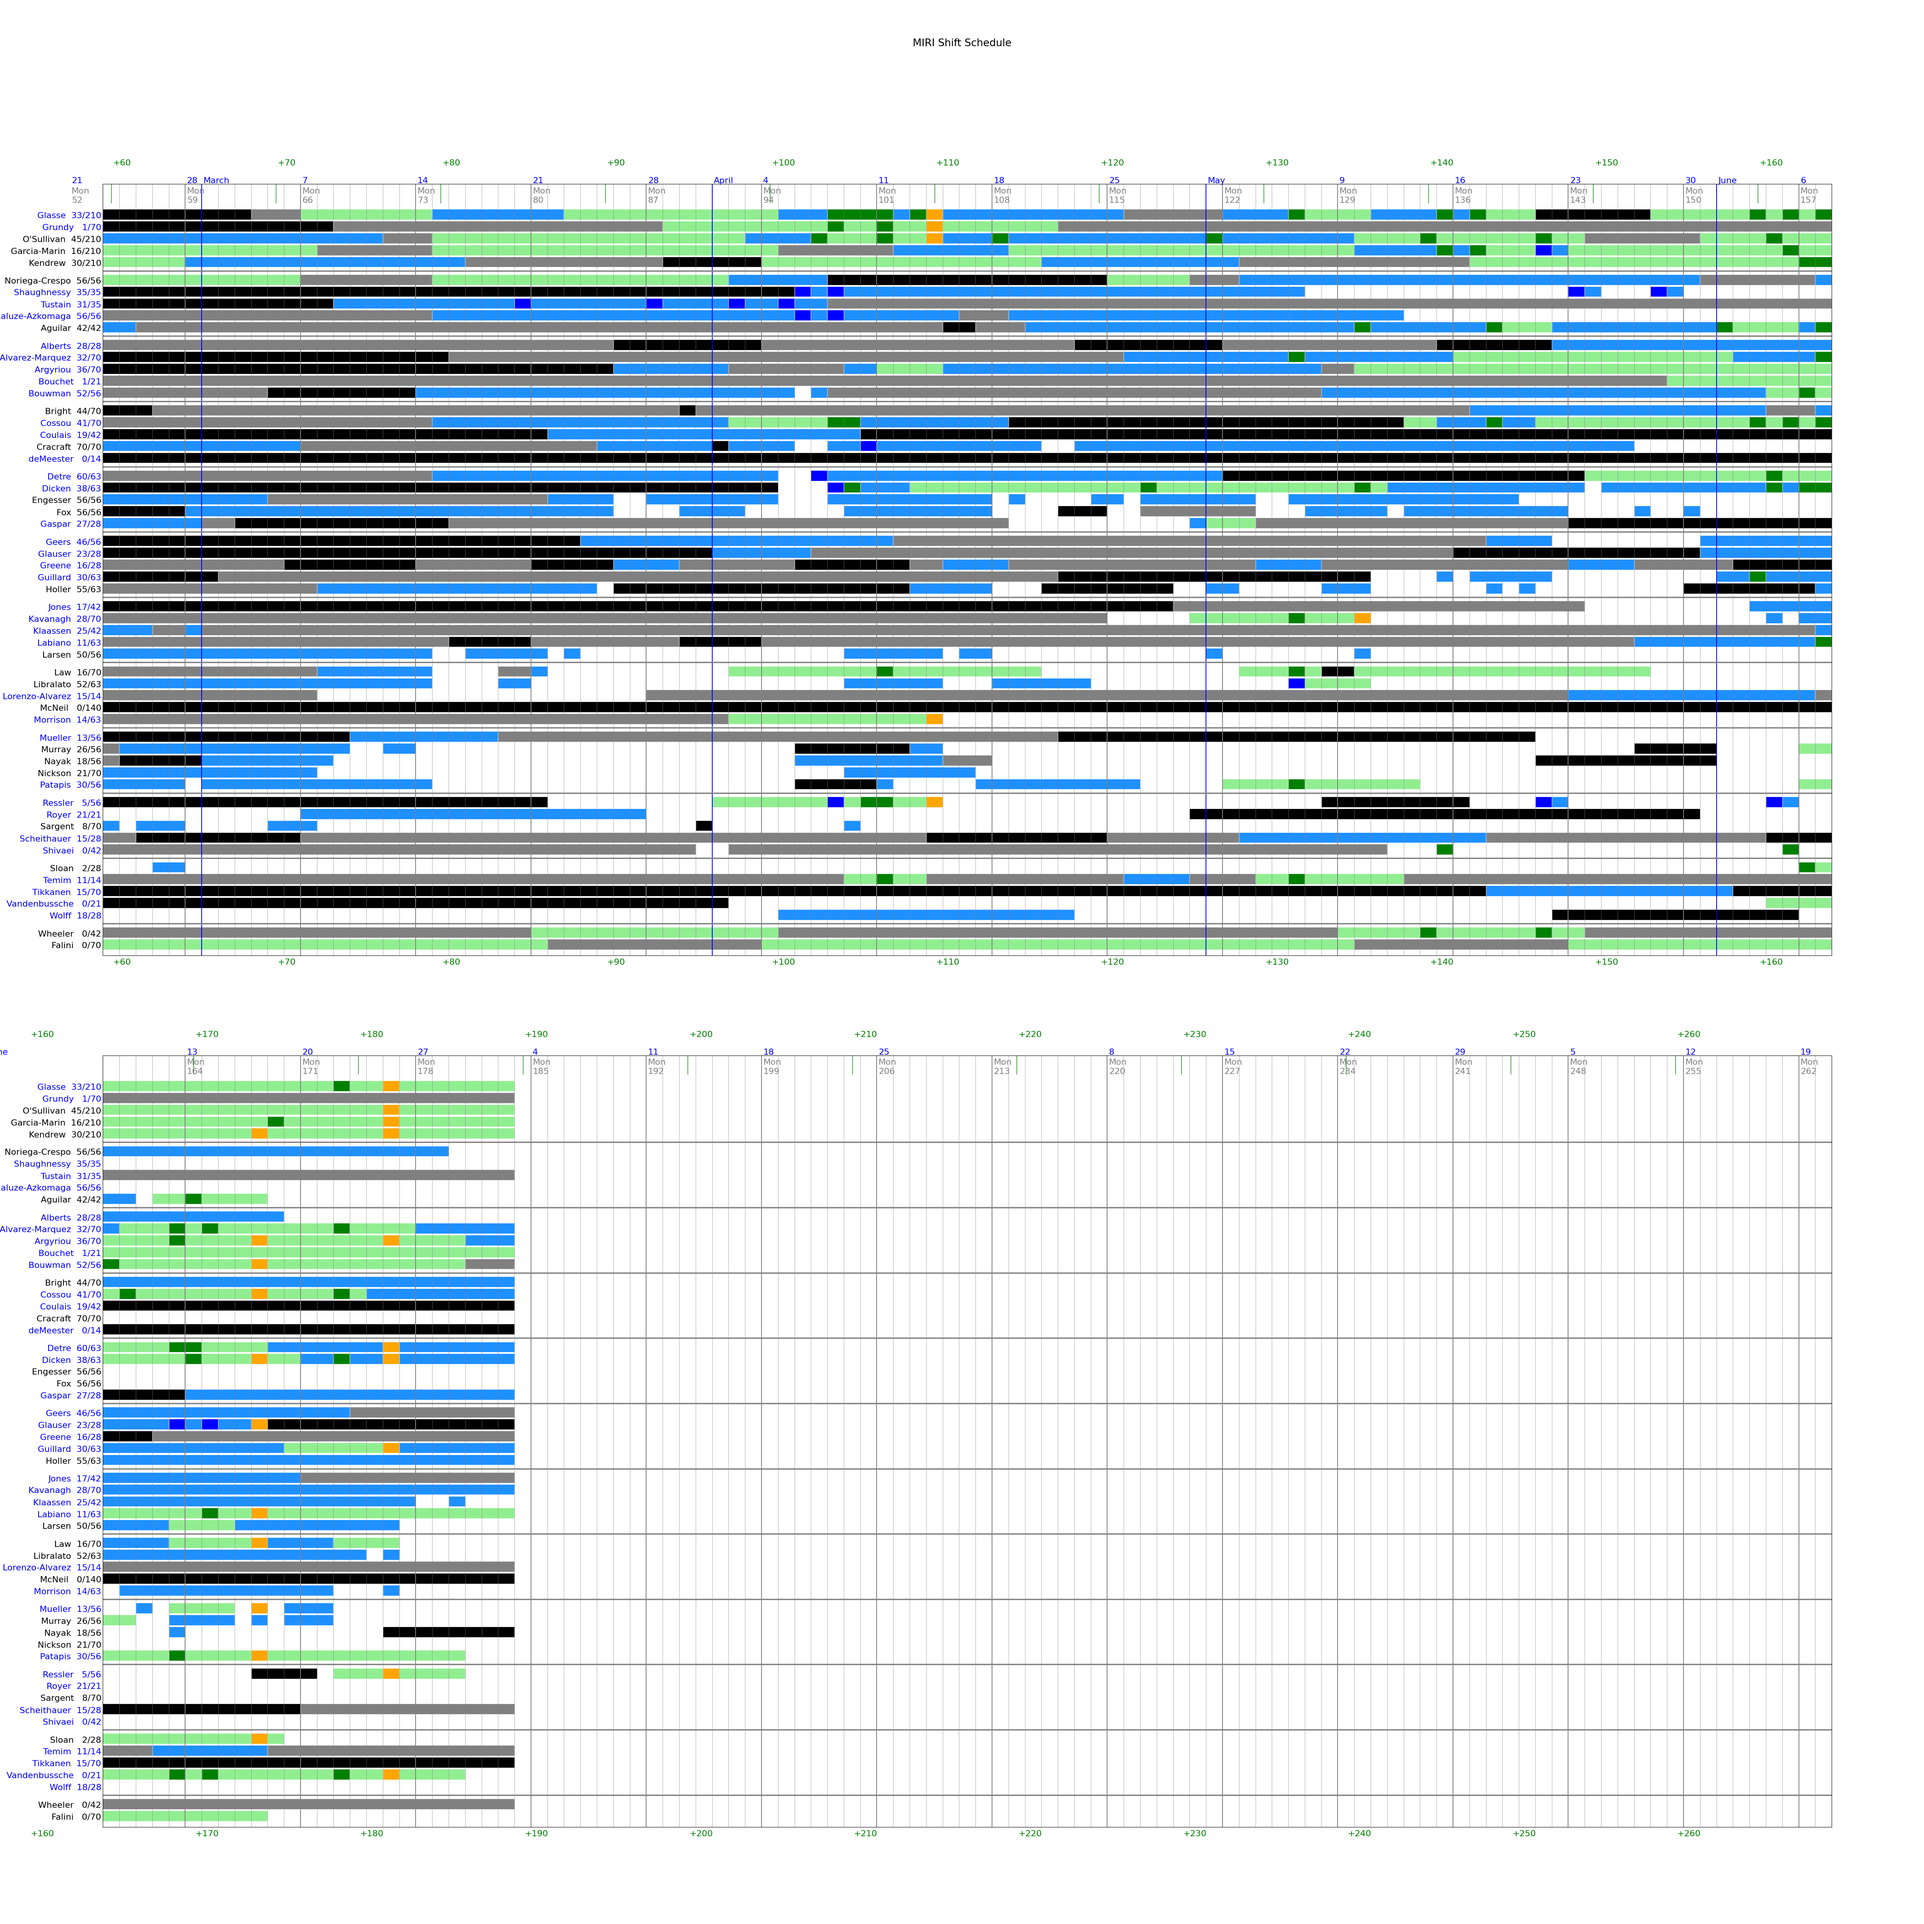
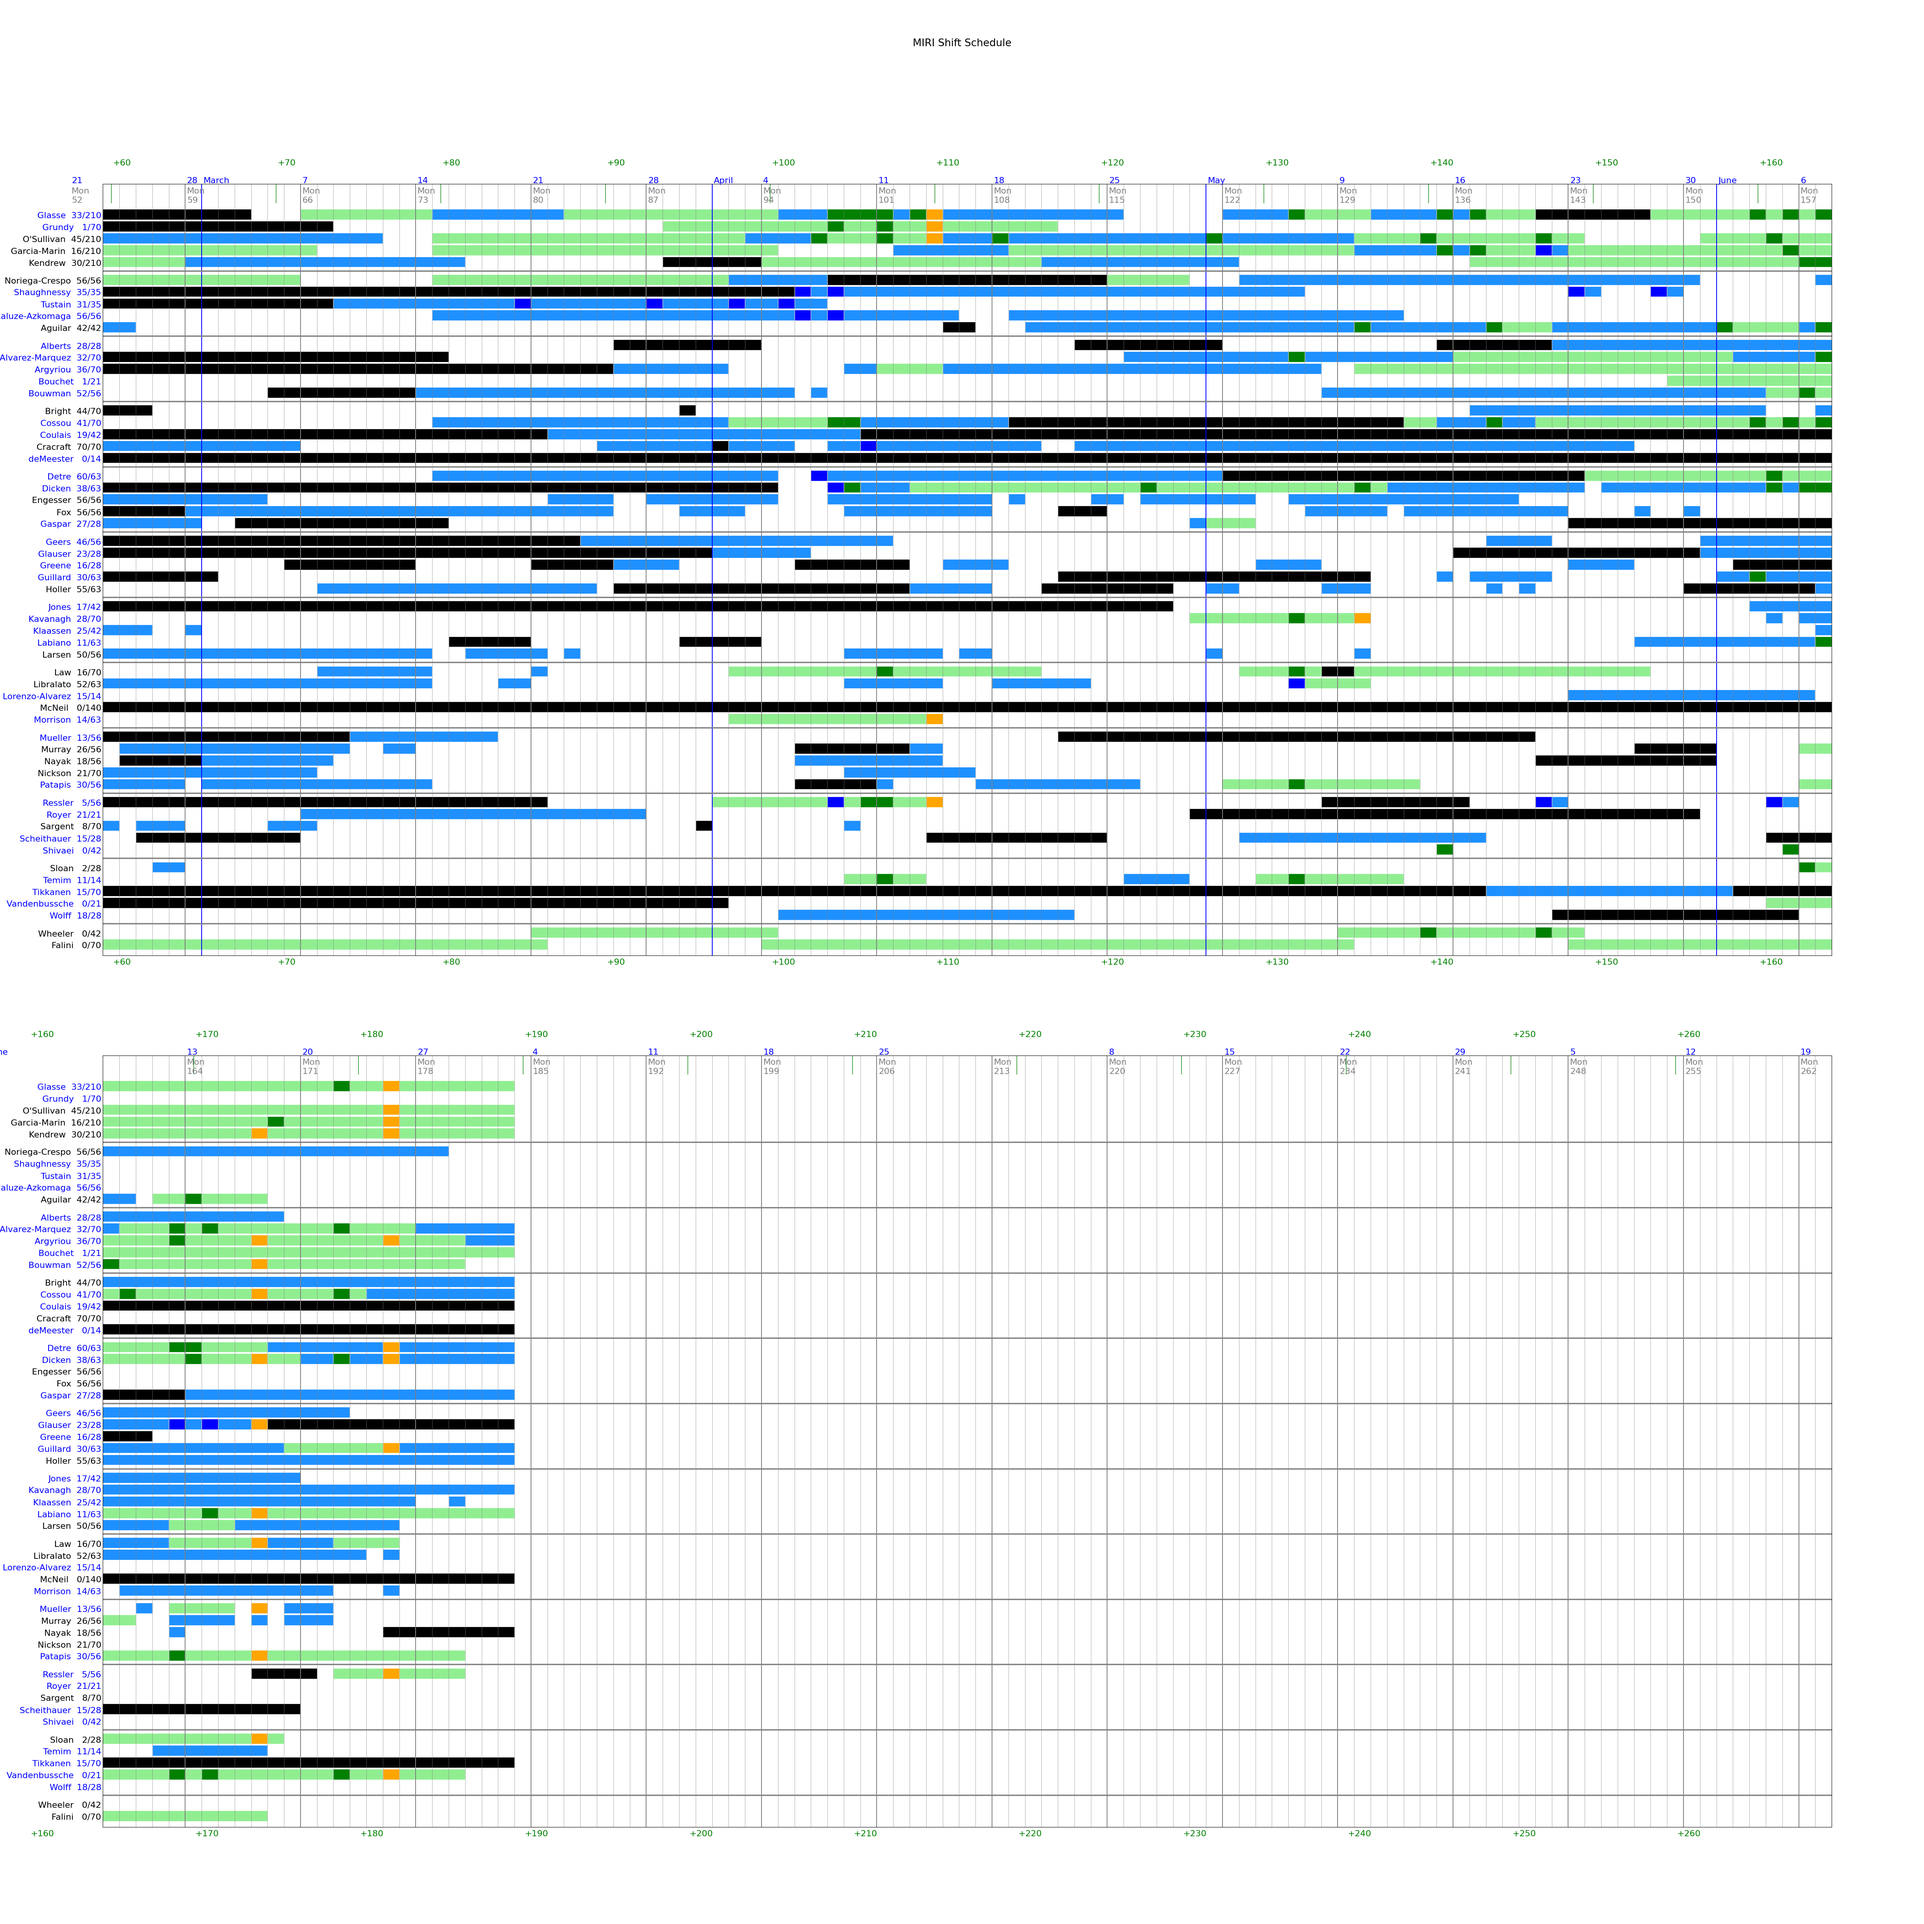
11/3/22 - Removed greyed out bars from calendar plot

diff --git a/source/timeliner.py b/source/timeliner.py
@@ -65,7 +65,7 @@ a_rota = ShiftPlan.tidy_rota(a_rota)
 
 date_tag = '220311'
 ShiftPlan.plot_rota(a_rota, 'analysis_rota' + date_tag, is_analysis=True)
-ShiftPlan.plot_staff_schedules(name='staff_calendar' + date_tag + '.png', show_greyout=True)
+ShiftPlan.plot_staff_schedules(name='staff_calendar' + date_tag + '.png', show_greyout=False)
 ShiftPlan.plot_rota(rota, 'moc_rota' + date_tag)
 
 ShiftPlan.print(to_csv=True)
